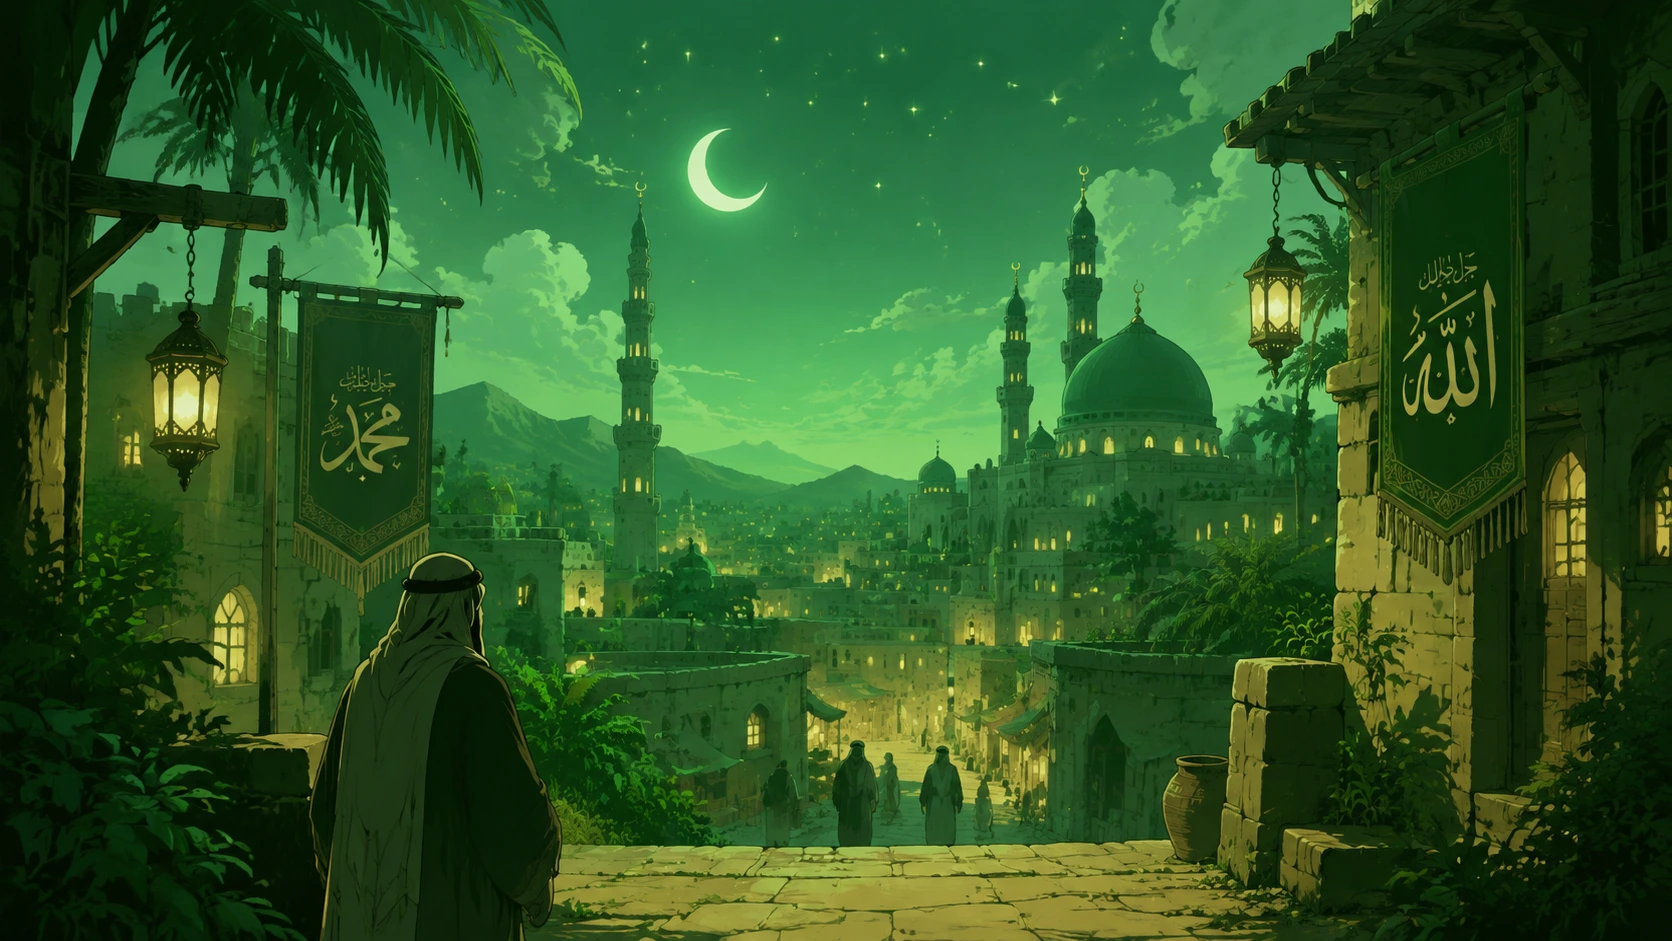
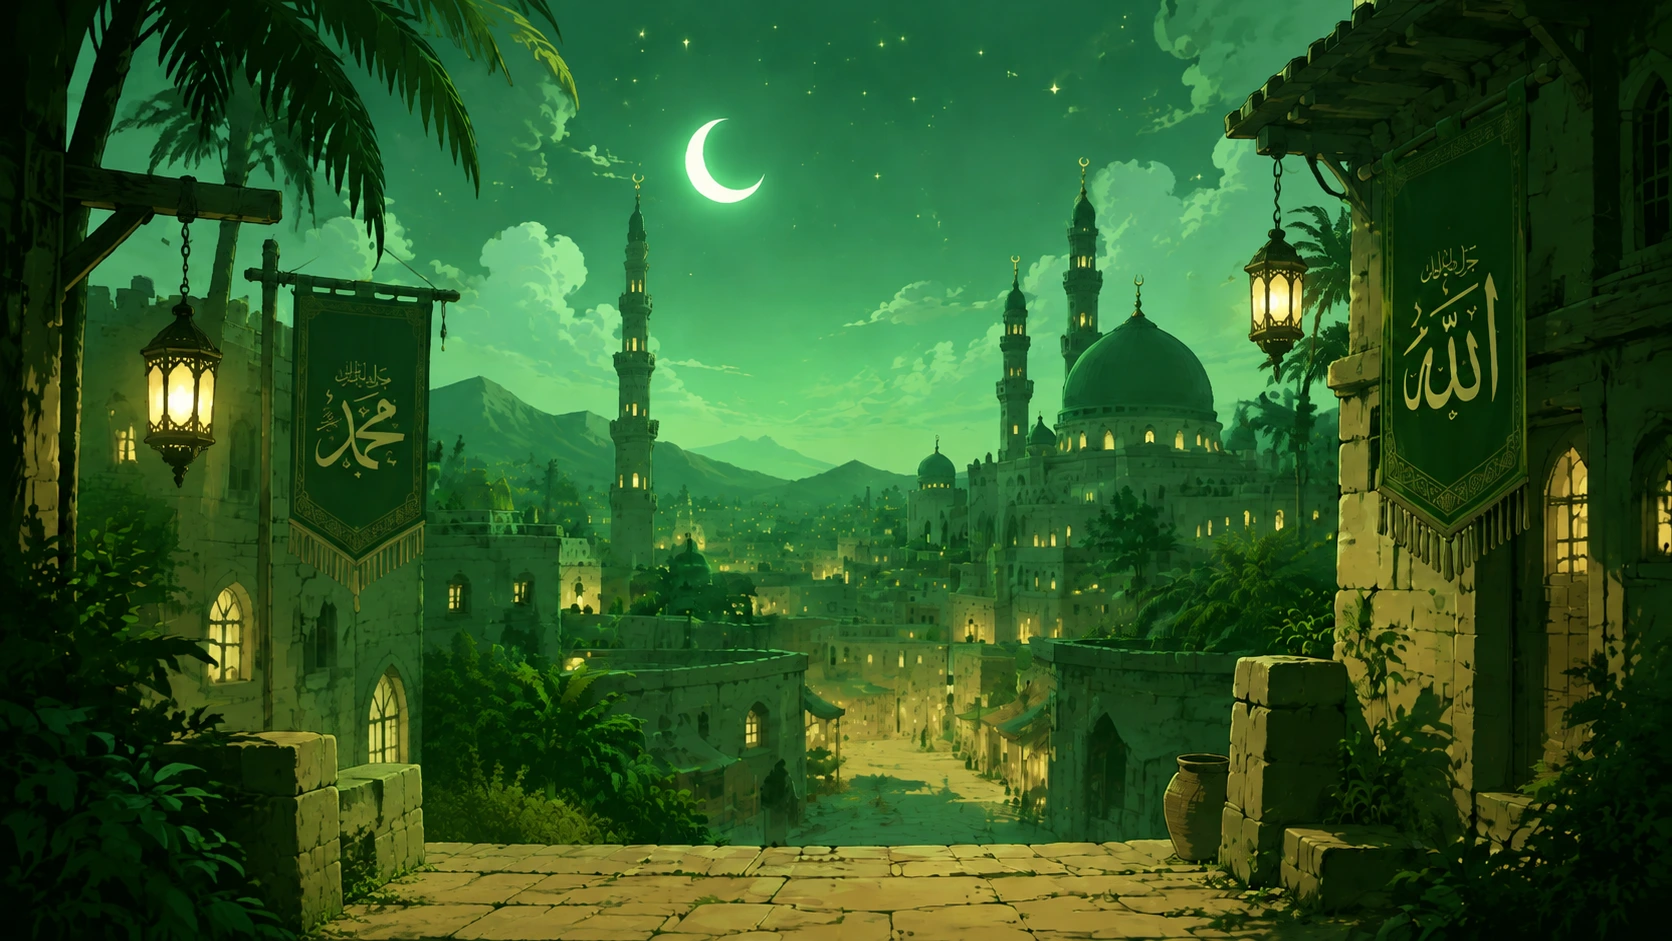
update

diff --git a/docs/app.js b/docs/app.js
@@ -1,8 +1,8 @@
-// GANTI URL DI BAWAH INI dengan URL Web App hasil deploy Google Apps Script kamu
-// (Deploy > New deployment > Web app > Execute as: Me > Who has access: Anyone)
+// Kuis
+// Maulid
 const API = 'https://script.google.com/macros/s/AKfycbx8eCQYmP1lBnSEevtKl4CHGO3Pqkppnl0ECtwcsWmkOJmZLPBKzw28WQ9U24szPMZBSg/exec';
 
-// Helper: GET pakai query string action, POST pakai text/plain (hindari CORS preflight)
+// Kuis Maulid
 async function apiGet(action) {
   const res = await fetch(`${API}?action=${action}`);
   return res.json();
